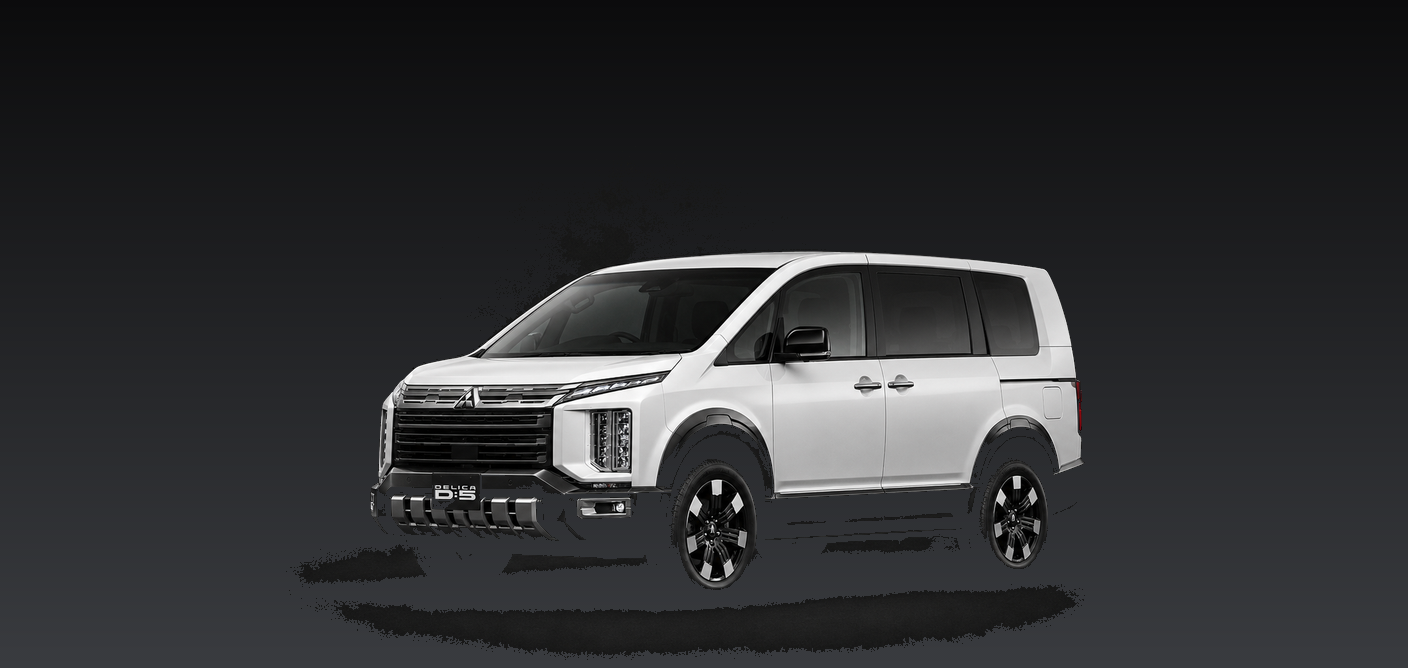
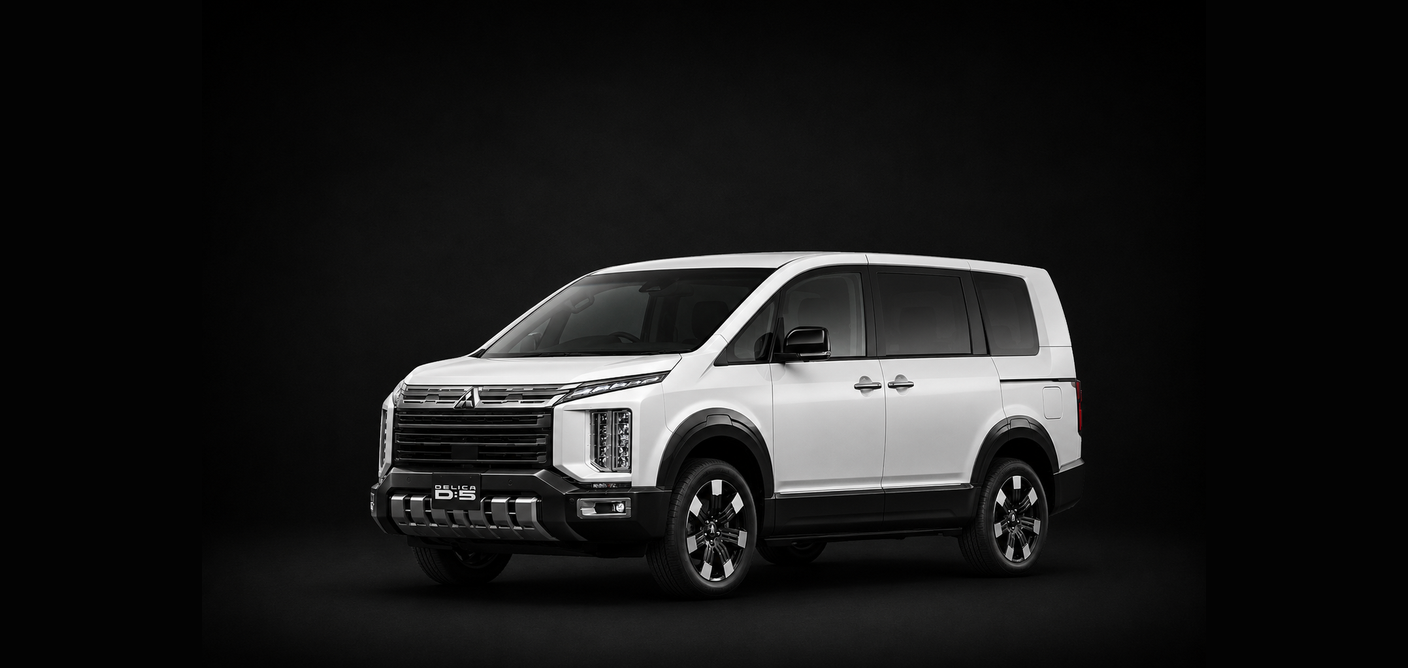
revert: Delica gen1/gen2 back to unedited real photos
The background-brightness pass from the prior commit passed every
check run in-session but showed a visibly smudgy/patchy gray artifact
under the car on an actual phone screenshot -- the flood-fill's
conservative "leave it if unsure" fallback left disconnected
background patches unprocessed, which read fine in this session's own
tooling but not at real viewing size. Reverted straight back to the
pure format-conversion files (matches commit 307ee5c byte-for-byte).

diff --git a/src/cars/delica-d5.js b/src/cars/delica-d5.js
@@ -38,19 +38,23 @@
 // when the source has the wrong background and needs one built from
 // nothing.
 //
-// (9, 2026-08-01) The format conversion above was left completely
-// pixel-untouched per explicit instruction -- but measured against
-// VOXY's own background (edge-column sampling), Delica's real photo
-// background was noticeably darker and flatter (roughly half VOXY's
-// brightness, no vertical gradient), a real "different studio" gap.
-// Per updated explicit instruction, brightened the background ONLY
-// (same vertical gradient target as solio.js/sienta.js, same border-
-// flood-fill car/background separation -- see that file's comment for
-// the full technique writeup) -- car body pixels are provably
-// untouched (post-edit diff against the pre-round-9 file showed zero
-// byte changes inside the flood-fill-protected region). The car
-// photography itself (paint, reflections, shape) is still exactly as
-// supplied; only the black level/gradient behind it changed.
+// (9, 2026-08-01, reverted same day) Tried brightening the background
+// only (measured darker/flatter than VOXY's own; same border-flood-
+// fill technique as solio.js/sienta.js, car pixels provably untouched
+// -- see that file's comment for the technique writeup). Passed every
+// check run at the time (build, DOM, diff-against-original), but real-
+// device viewing (an actual phone screenshot, not this session's own
+// tooling) showed a visibly smudgy/patchy gray cloud under the car in
+// Timeline and Detail -- the flood-fill's conservative "leave it alone
+// if unsure" fallback left uneven, disconnected background patches
+// unprocessed, and at real viewing size/distance those read as an
+// artifact, not a subtle imperfection. Reverted same day, straight
+// back to the pure format-conversion file (git commit 307ee5c) -- not
+// patched further. **Do not re-attempt background grading on this
+// vehicle's images without a real device screenshot in hand to verify
+// against; this project's own tooling (in-session browser automation)
+// missed exactly this defect twice in a row on this file.** Current
+// gen1/gen2 files are, once again, untouched exactly as supplied.
 //
 // annotations: re-derived (2026-08-01) against the new photos above --
 // the car sits smaller and differently centered in frame than the old
